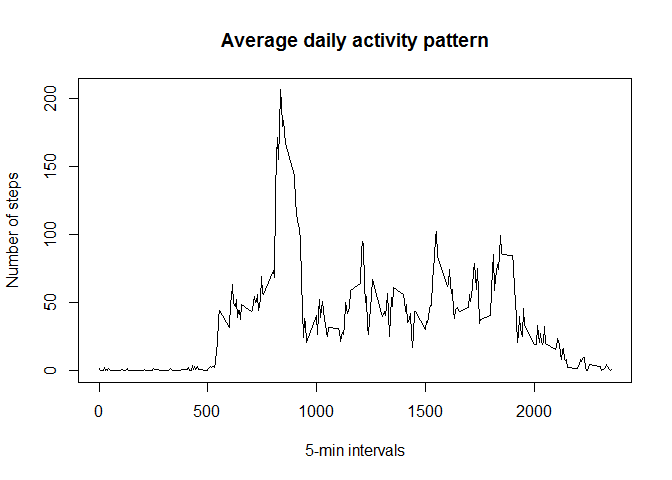
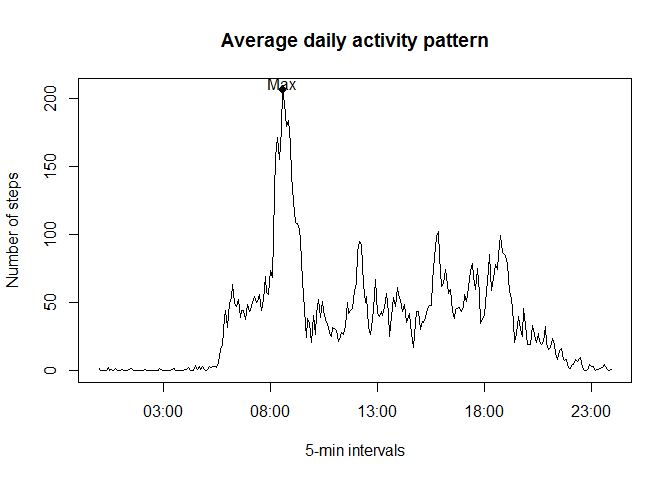
fix intervals in time format

diff --git a/PA1_template.html b/PA1_template.html
@@ -67,9 +67,12 @@ img {
 <p>This is a report analyzing the data from a personal activity monitoring device. This device collects data at 5 minute intervals through out the day. The data consists of two months of data from an anonymous individual collected during the months of October and November, 2012 and include the number of steps taken in 5 minute intervals each day.</p>
 <div id="loading-and-preprocessing-the-data" class="section level2">
 <h2>Loading and preprocessing the data</h2>
-<p>First, unzip and load the activity monitoring data.</p>
+<p>First, unzip, load and preproces the activity monitoring data.</p>
 <pre class="r"><code>unzip(&quot;./activity.zip&quot;)
-act &lt;- read.csv(&quot;./activity.csv&quot;)</code></pre>
+act &lt;- read.csv(&quot;./activity.csv&quot;)
+
+## convert interval identifiers to POSIXct times
+act$intervaltime &lt;- as.POSIXct(strptime(sprintf(&quot;%04d&quot;, act$interval), &quot;%H%M&quot;))</code></pre>
 </div>
 <div id="what-is-mean-total-number-of-steps-taken-per-day" class="section level2">
 <h2>What is mean total number of steps taken per day?</h2>
@@ -92,25 +95,29 @@ dailySum &lt;- summarize(daily, dailySteps = sum(steps, na.rm=TRUE))</code></pre
 <pre class="r"><code>hist(dailySum$dailySteps, xlab=&quot;Number of steps&quot;, main=&quot;Total number of steps taken each day&quot;)</code></pre>
[1 lines of base64/hex data omitted]
 <p>Here are the mean and median total number of steps taken per day.</p>
-<pre class="r"><code>mean(dailySum$dailySteps)</code></pre>
+<pre class="r"><code>mean(dailySum$dailySteps, na.rm=TRUE)</code></pre>
 <pre><code>## [1] 9354.23</code></pre>
-<pre class="r"><code>median(dailySum$dailySteps)</code></pre>
+<pre class="r"><code>median(dailySum$dailySteps, na.rm=TRUE)</code></pre>
 <pre><code>## [1] 10395</code></pre>
 </div>
 <div id="what-is-the-average-daily-activity-pattern" class="section level2">
 <h2>What is the average daily activity pattern?</h2>
 <p>Calculate the average number of steps taken for each 5-minute interval, averaged across all days. Here, we ignore the missing values in the dataset.</p>
-<pre class="r"><code>intervals &lt;- group_by(act, interval)
+<pre class="r"><code>intervals &lt;- group_by(act, intervaltime)
 intervals &lt;- summarize(intervals, steps=mean(steps, na.rm=TRUE))</code></pre>
-<p>Here is the time series plot of the 5-minute interval and the average number of steps taken.</p>
-<pre class="r"><code>plot(intervals$interval, intervals$steps, type=&quot;l&quot;, 
-     xlab=&quot;5-min intervals&quot;, ylab=&quot;Number of steps&quot;, main=&quot;Average daily activity pattern&quot;)</code></pre>
[1 lines of base64/hex data omitted]
-<p>Find out which 5-minute interval, on average across all the days in the dataset, contains the maximum number of steps.</p>
+<p>Find out which 5-minute interval contains the maximum number of steps.</p>
 <pre class="r"><code>ind &lt;- which.max(intervals$step)
-mInt &lt;- intervals$interval[ind]
+mInt &lt;- intervals$intervaltime[ind]
 mSteps &lt;- intervals$steps[ind]</code></pre>
-<p>The interval 835 contains the maximum number of steps, 206.1698113.</p>
+<p>Here is the time series plot of the 5-minute interval and the average number of steps taken.</p>
+<pre class="r"><code>plot(intervals$intervaltime, intervals$steps, type=&quot;l&quot;, 
+     xlab=&quot;5-min intervals&quot;, ylab=&quot;Number of steps&quot;, main=&quot;Average daily activity pattern&quot;)
+
+## Mark the interval with the maximum number of steps
+points(mInt, mSteps, pch=19)
+text(mInt, mSteps+5, &quot;Max&quot;)</code></pre>
[1 lines of base64/hex data omitted]
+<p>The interval 08:35 contains the maximum number of steps, 206.2.</p>
 </div>
 <div id="imputing-missing-values" class="section level2">
 <h2>Imputing missing values</h2>
@@ -118,8 +125,9 @@ mSteps &lt;- intervals$steps[ind]</code></pre>
 <pre class="r"><code>sum(is.na(act$steps))</code></pre>
 <pre><code>## [1] 2304</code></pre>
 <p>We will fill in a missing value in the dataset with the mean for that 5-minute interval, which we calculated earlier. A new dataset is created that is equal to the original dataset but with the missing data filled in.</p>
-<pre class="r"><code>act1 &lt;- arrange(merge(act, intervals, by.x=&quot;interval&quot;, by.y=&quot;interval&quot;), date)
-act1 &lt;- transmute(act1, steps=ifelse(is.na(steps.x), steps.y, steps.x), date=date, interval=interval)</code></pre>
+<pre class="r"><code>act1 &lt;- merge(act, intervals, by.x=&quot;intervaltime&quot;, by.y=&quot;intervaltime&quot;)
+act1 &lt;- transmute(act1, steps=ifelse(is.na(steps.x), steps.y, steps.x), 
+                  date=date, intervaltime=intervaltime)</code></pre>
 <p>Calculate the total number of steps taken each day for the new dataset.</p>
 <pre class="r"><code>daily &lt;- group_by(act1, date)
 dailySum &lt;- summarize(daily, dailySteps = sum(steps, na.rm=FALSE))</code></pre>
@@ -127,25 +135,27 @@ dailySum &lt;- summarize(daily, dailySteps = sum(steps, na.rm=FALSE))</code></pr
 <pre class="r"><code>hist(dailySum$dailySteps, xlab=&quot;Number of steps&quot;, main=&quot;Total number of steps taken each day&quot;)</code></pre>
[1 lines of base64/hex data omitted]
 <p>Here are the mean and median total number of steps taken per day for the new dataset.</p>
-<pre class="r"><code>mean(dailySum$dailySteps)</code></pre>
+<pre class="r"><code>mean(dailySum$dailySteps, na.rm=FALSE)</code></pre>
 <pre><code>## [1] 10766.19</code></pre>
-<pre class="r"><code>median(dailySum$dailySteps)</code></pre>
+<pre class="r"><code>median(dailySum$dailySteps, na.rm=FALSE)</code></pre>
 <pre><code>## [1] 10766.19</code></pre>
 <p>Compare to the orginal dataset, the new dataset with missing data filled in results in fewer days with low numbers of steps taken. The mean and median are higher with the new dataset. It is apparent that the missing values are concentrated in certain days, instead of spreading across most days.</p>
 </div>
 <div id="are-there-differences-in-activity-patterns-between-weekdays-and-weekends" class="section level2">
 <h2>Are there differences in activity patterns between weekdays and weekends?</h2>
 <p>Calculate average number of steps taken for each 5-minute interval, averaged across all weekday days or weekend days.</p>
-<pre class="r"><code>act1$weekday = factor(ifelse(weekdays(as.Date(act1$date)) %in% c(&quot;Saturday&quot;,&quot;Sunday&quot;), &quot;weekend&quot;, &quot;weekday&quot;))
+<pre class="r"><code>act1$weekday = factor(ifelse(weekdays(as.Date(act1$date)) %in% c(&quot;Saturday&quot;,&quot;Sunday&quot;), 
+                      &quot;weekend&quot;, &quot;weekday&quot;))
 
-intervals1 &lt;- group_by(act1, interval, weekday)
-intervals1 &lt;- summarize(intervals1, steps=mean(steps))</code></pre>
+intervals1 &lt;- group_by(act1, intervaltime, weekday)
+intervals1 &lt;- summarize(intervals1, steps=mean(steps, na.rm=FALSE))</code></pre>
 <p>Here is the panel plot containing a time series plot of the 5-minute interval and the average number of steps taken.</p>
 <pre class="r"><code>library(lattice)</code></pre>
 <pre><code>## Warning: package 'lattice' was built under R version 3.1.3</code></pre>
-<pre class="r"><code>xyplot(intervals1$steps ~ intervals1$interval | intervals1$weekday , type=&quot;l&quot;, layout=c(1,2),
-       xlab=&quot;Interval&quot;, ylab=&quot;Number of steps&quot;)</code></pre>
[1 lines of base64/hex data omitted]
+<pre class="r"><code>xyplot(intervals1$steps ~ intervals1$intervaltime | intervals1$weekday,
+       scales=list(x=list(format=&quot;%H:%M&quot;)), type=&quot;l&quot;, layout=c(1,2),
+       xlab=&quot;5-min Intervals&quot;, ylab=&quot;Number of steps&quot;)</code></pre>
[1 lines of base64/hex data omitted]
 </div>
 
 

diff --git a/PA1_template.md b/PA1_template.md
@@ -2,15 +2,15 @@
 
 This is a report analyzing the data from a personal activity monitoring device. This device collects data at 5 minute intervals through out the day. The data consists of two months of data from an anonymous individual collected during the months of October and November, 2012 and include the number of steps taken in 5 minute intervals each day.
 
-
-
-
 ## Loading and preprocessing the data
-First, unzip and load the activity monitoring data.
+First, unzip, load and preproces the activity monitoring data.
 
 ```r
 unzip("./activity.zip")
 act <- read.csv("./activity.csv")
+
+## convert interval identifiers to POSIXct times
+act$intervaltime <- as.POSIXct(strptime(sprintf("%04d", act$interval), "%H%M"))
 ```
 
 ## What is mean total number of steps taken per day?
@@ -53,7 +53,7 @@ hist(dailySum$dailySteps, xlab="Number of steps", main="Total number of steps ta
 Here are the mean and median total number of steps taken per day.
 
 ```r
-mean(dailySum$dailySteps)
+mean(dailySum$dailySteps, na.rm=TRUE)
 ```
 
 ```
@@ -61,7 +61,7 @@ mean(dailySum$dailySteps)
 ```
 
 ```r
-median(dailySum$dailySteps)
+median(dailySum$dailySteps, na.rm=TRUE)
 ```
 
 ```
@@ -72,27 +72,32 @@ median(dailySum$dailySteps)
 Calculate the average number of steps taken for each 5-minute interval, averaged across all days. Here, we ignore the missing values in the dataset.
 
 ```r
-intervals <- group_by(act, interval)
+intervals <- group_by(act, intervaltime)
 intervals <- summarize(intervals, steps=mean(steps, na.rm=TRUE))
+```
+
+Find out which 5-minute interval contains the maximum number of steps.
+
+```r
+ind <- which.max(intervals$step)
+mInt <- intervals$intervaltime[ind]
+mSteps <- intervals$steps[ind]
 ```
 
 Here is the time series plot of the 5-minute interval and the average number of steps taken.
 
 ```r
-plot(intervals$interval, intervals$steps, type="l", 
+plot(intervals$intervaltime, intervals$steps, type="l", 
      xlab="5-min intervals", ylab="Number of steps", main="Average daily activity pattern")
+
+## Mark the interval with the maximum number of steps
+points(mInt, mSteps, pch=19)
+text(mInt, mSteps+5, "Max")
 ```
 
 ![](PA1_template_files/figure-html/intervalsplot-1.png) 
 
-Find out which 5-minute interval, on average across all the days in the dataset, contains the maximum number of steps.
-
-```r
-ind <- which.max(intervals$step)
-mInt <- intervals$interval[ind]
-mSteps <- intervals$steps[ind]
-```
-The interval 835 contains the maximum number of steps, 206.1698113.
+The interval 08:35 contains the maximum number of steps, 206.2.
 
 
 ## Imputing missing values
@@ -109,8 +114,9 @@ sum(is.na(act$steps))
 We will fill in a missing value in the dataset with the mean for that 5-minute interval, which we calculated earlier.  A new dataset is created that is equal to the original dataset but with the missing data filled in.
 
 ```r
-act1 <- arrange(merge(act, intervals, by.x="interval", by.y="interval"), date)
-act1 <- transmute(act1, steps=ifelse(is.na(steps.x), steps.y, steps.x), date=date, interval=interval)
+act1 <- merge(act, intervals, by.x="intervaltime", by.y="intervaltime")
+act1 <- transmute(act1, steps=ifelse(is.na(steps.x), steps.y, steps.x), 
+                  date=date, intervaltime=intervaltime)
 ```
 
 Calculate the total number of steps taken each day for the new dataset.
@@ -131,7 +137,7 @@ hist(dailySum$dailySteps, xlab="Number of steps", main="Total number of steps ta
 Here are the mean and median total number of steps taken per day for the new dataset.
 
 ```r
-mean(dailySum$dailySteps)
+mean(dailySum$dailySteps, na.rm=FALSE)
 ```
 
 ```
@@ -139,7 +145,7 @@ mean(dailySum$dailySteps)
 ```
 
 ```r
-median(dailySum$dailySteps)
+median(dailySum$dailySteps, na.rm=FALSE)
 ```
 
 ```
@@ -152,10 +158,11 @@ Compare to the orginal dataset, the new dataset with missing data filled in resu
 Calculate average number of steps taken for each 5-minute interval, averaged across all weekday days or weekend days.
 
 ```r
-act1$weekday = factor(ifelse(weekdays(as.Date(act1$date)) %in% c("Saturday","Sunday"), "weekend", "weekday"))
+act1$weekday = factor(ifelse(weekdays(as.Date(act1$date)) %in% c("Saturday","Sunday"), 
+                      "weekend", "weekday"))
 
-intervals1 <- group_by(act1, interval, weekday)
-intervals1 <- summarize(intervals1, steps=mean(steps))
+intervals1 <- group_by(act1, intervaltime, weekday)
+intervals1 <- summarize(intervals1, steps=mean(steps, na.rm=FALSE))
 ```
 
 Here is the panel plot containing a time series plot of the 5-minute interval and the average number of steps taken.
@@ -169,8 +176,9 @@ library(lattice)
 ```
 
 ```r
-xyplot(intervals1$steps ~ intervals1$interval | intervals1$weekday , type="l", layout=c(1,2),
-       xlab="Interval", ylab="Number of steps")
+xyplot(intervals1$steps ~ intervals1$intervaltime | intervals1$weekday,
+       scales=list(x=list(format="%H:%M")), type="l", layout=c(1,2),
+       xlab="5-min Intervals", ylab="Number of steps")
 ```
 
 ![](PA1_template_files/figure-html/weekdaysplot-1.png) 
